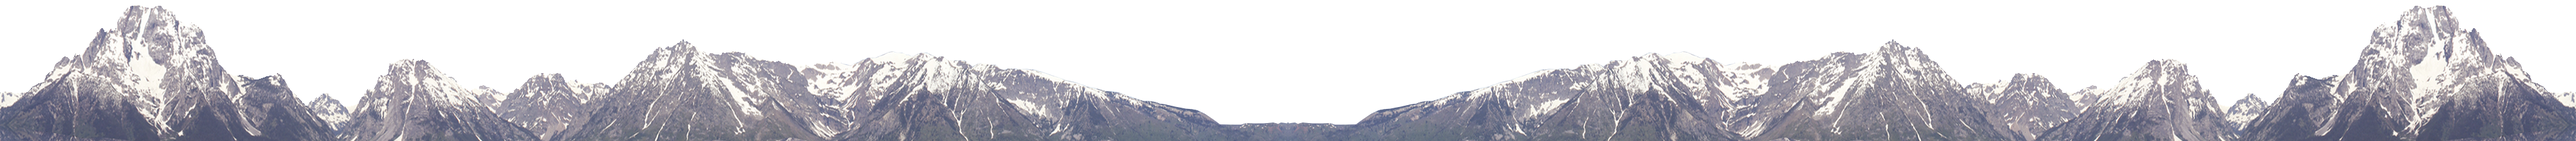
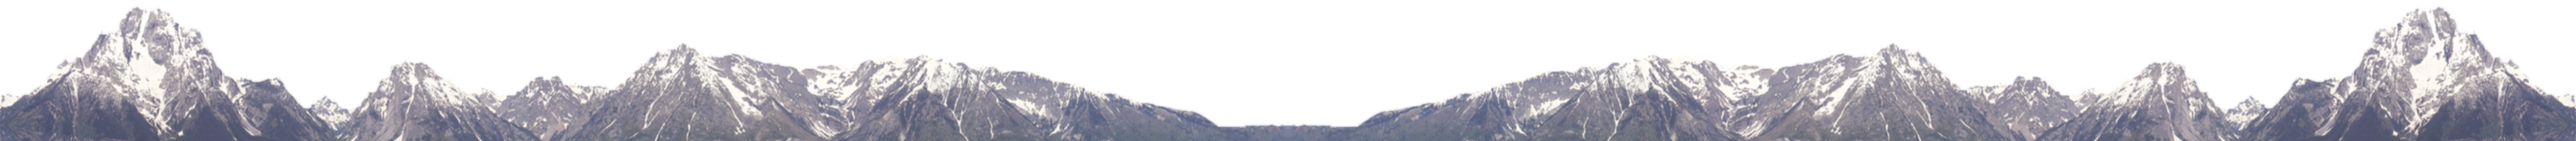
Made parallax background responsive

diff --git a/assets/style.css b/assets/style.css
@@ -16,9 +16,10 @@
 
 .water {
     background: url("water.jpg") repeat-x;
+    background-size: cover;
     -webkit-animation: backgroundScroll 500000s linear infinite;
     animation: backgroundScroll 500000s linear infinite;
-    height: 286px;
+    height: 20%;
     position: absolute;
     bottom: 0;
     left: 0;
@@ -31,29 +32,61 @@
     animation: backgroundScroll 1000000s linear infinite;
     height: 45px;
     position: absolute;
-    bottom: 286px;
+    bottom: 20%;
     left: 0;
     z-index: 997;
 }
 
 .mountains {
     background: url("mountains.png") repeat-x;
+    background-size: cover;
     -webkit-animation: backgroundScroll 2000000s linear infinite;
     animation: backgroundScroll 2000000s linear infinite;
-    height: 220px;
+    height: 40%;
     position: absolute;
-    bottom: 286px;
+    bottom: 20%;
     left: 0;
     z-index: 996;
 }
 
 .sky {
     background: url("sky.jpg") repeat-x;
+    background-size: cover;
     -webkit-animation: backgroundScroll 4000000s linear infinite;
     animation: backgroundScroll 4000000s linear infinite;
-    height: 700px;
+    height: 100%;
     position: absolute;
-    bottom: 287px;
+    bottom: 20%;
     left: 0;
     z-index: 995;
+}
+
+.content {
+    width: 100%;
+    height: 56%;
+    position: absolute;
+    top: 0;
+    left: 0;
+    z-index: 999;
+}
+
+.courseList, .description {
+    width: 50%;
+    height: 100%;
+    display: inline-block;
+}
+
+.courseList * {
+    margin-left: 20%;
+}
+
+.courseList {
+    position: relative;
+    top: 0;
+    left: 0;
+}
+
+.description {
+    position: absolute;
+    top: 0;
 }

diff --git a/index.html b/index.html
@@ -10,12 +10,27 @@
 </head>
 <body>
 
-<ul class="parallax">
-    <li class="water"></li>
-    <li class="hills"></li>
-    <li class="mountains"></li>
-    <li class="sky"></li>
-</ul>
+<section id="page-background">
+    <ul class="parallax">
+        <li class="water"></li>
+        <li class="hills"></li>
+        <li class="mountains"></li>
+        <li class="sky"></li>
+    </ul>
+</section>
+
+<section id="content-pane" class="content">
+    <div class="courseList">
+        <h1>Do what moves you.</h1>
+        <h2>Available Courses</h2>
+        <p>Intro to Literary Theory</p>
+        <p>Fine Art Mastery</p>
+    </div>
+    <div class="description">
+        <h3>Description Placeholder</h3>
+        <p>Descriptive text...</p>
+    </div>
+</section>
 
 <script src="lib/require-min.js"></script>
 <script src="lib/square-min.js"></script>
